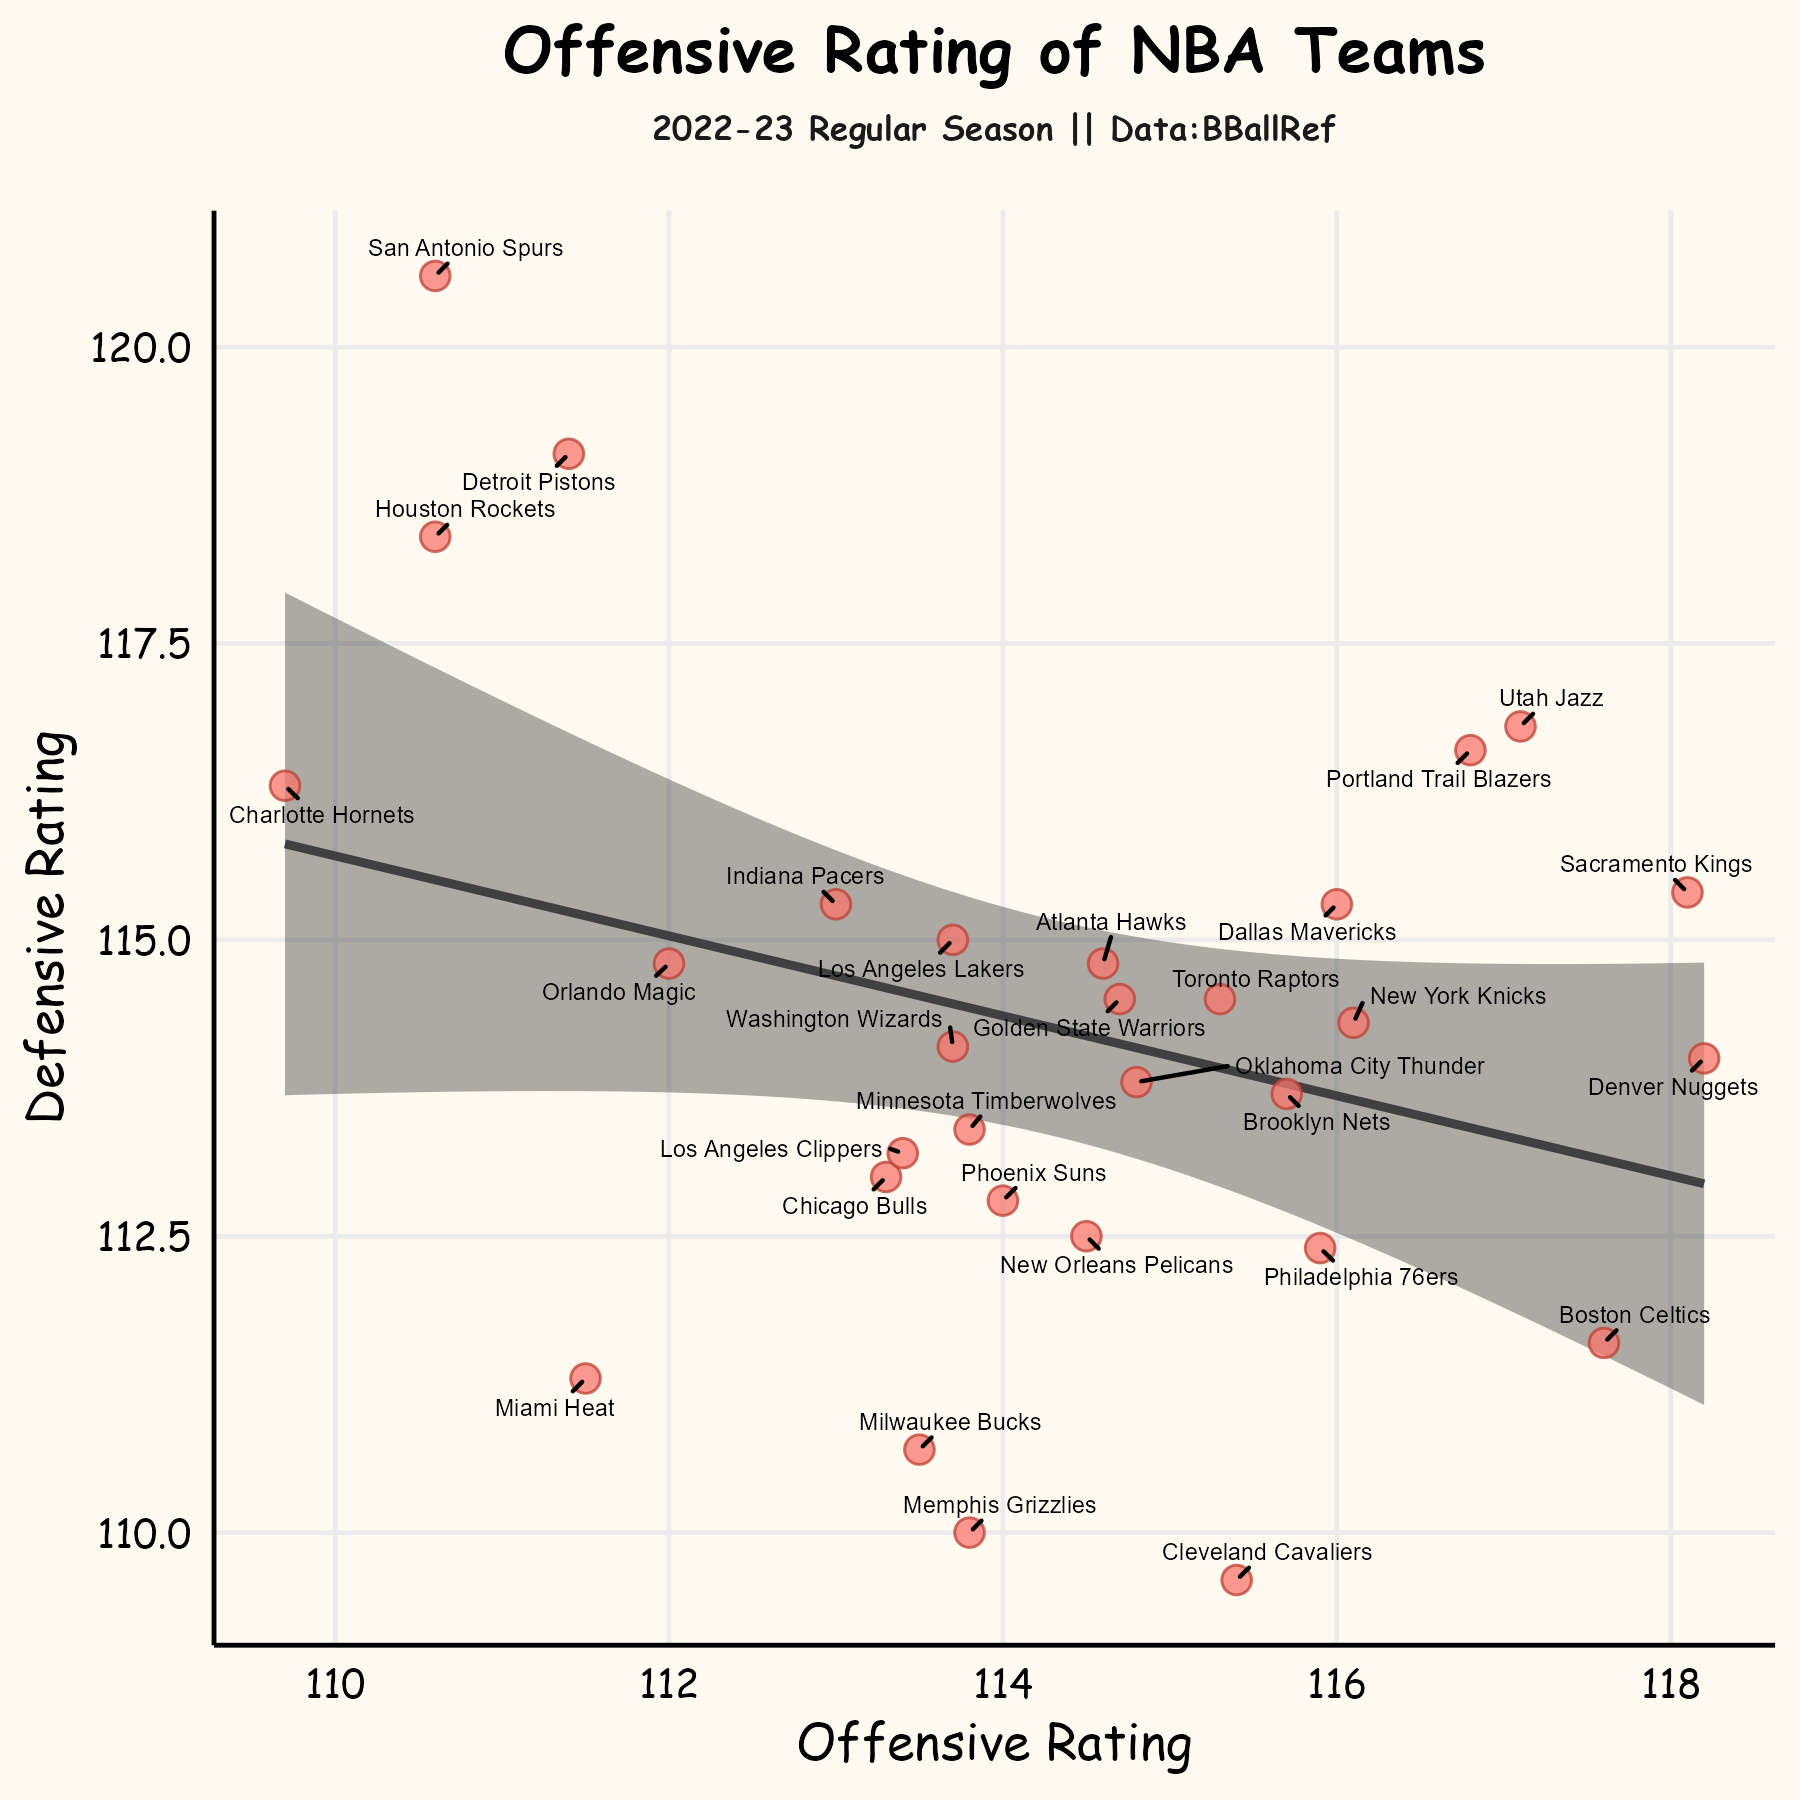
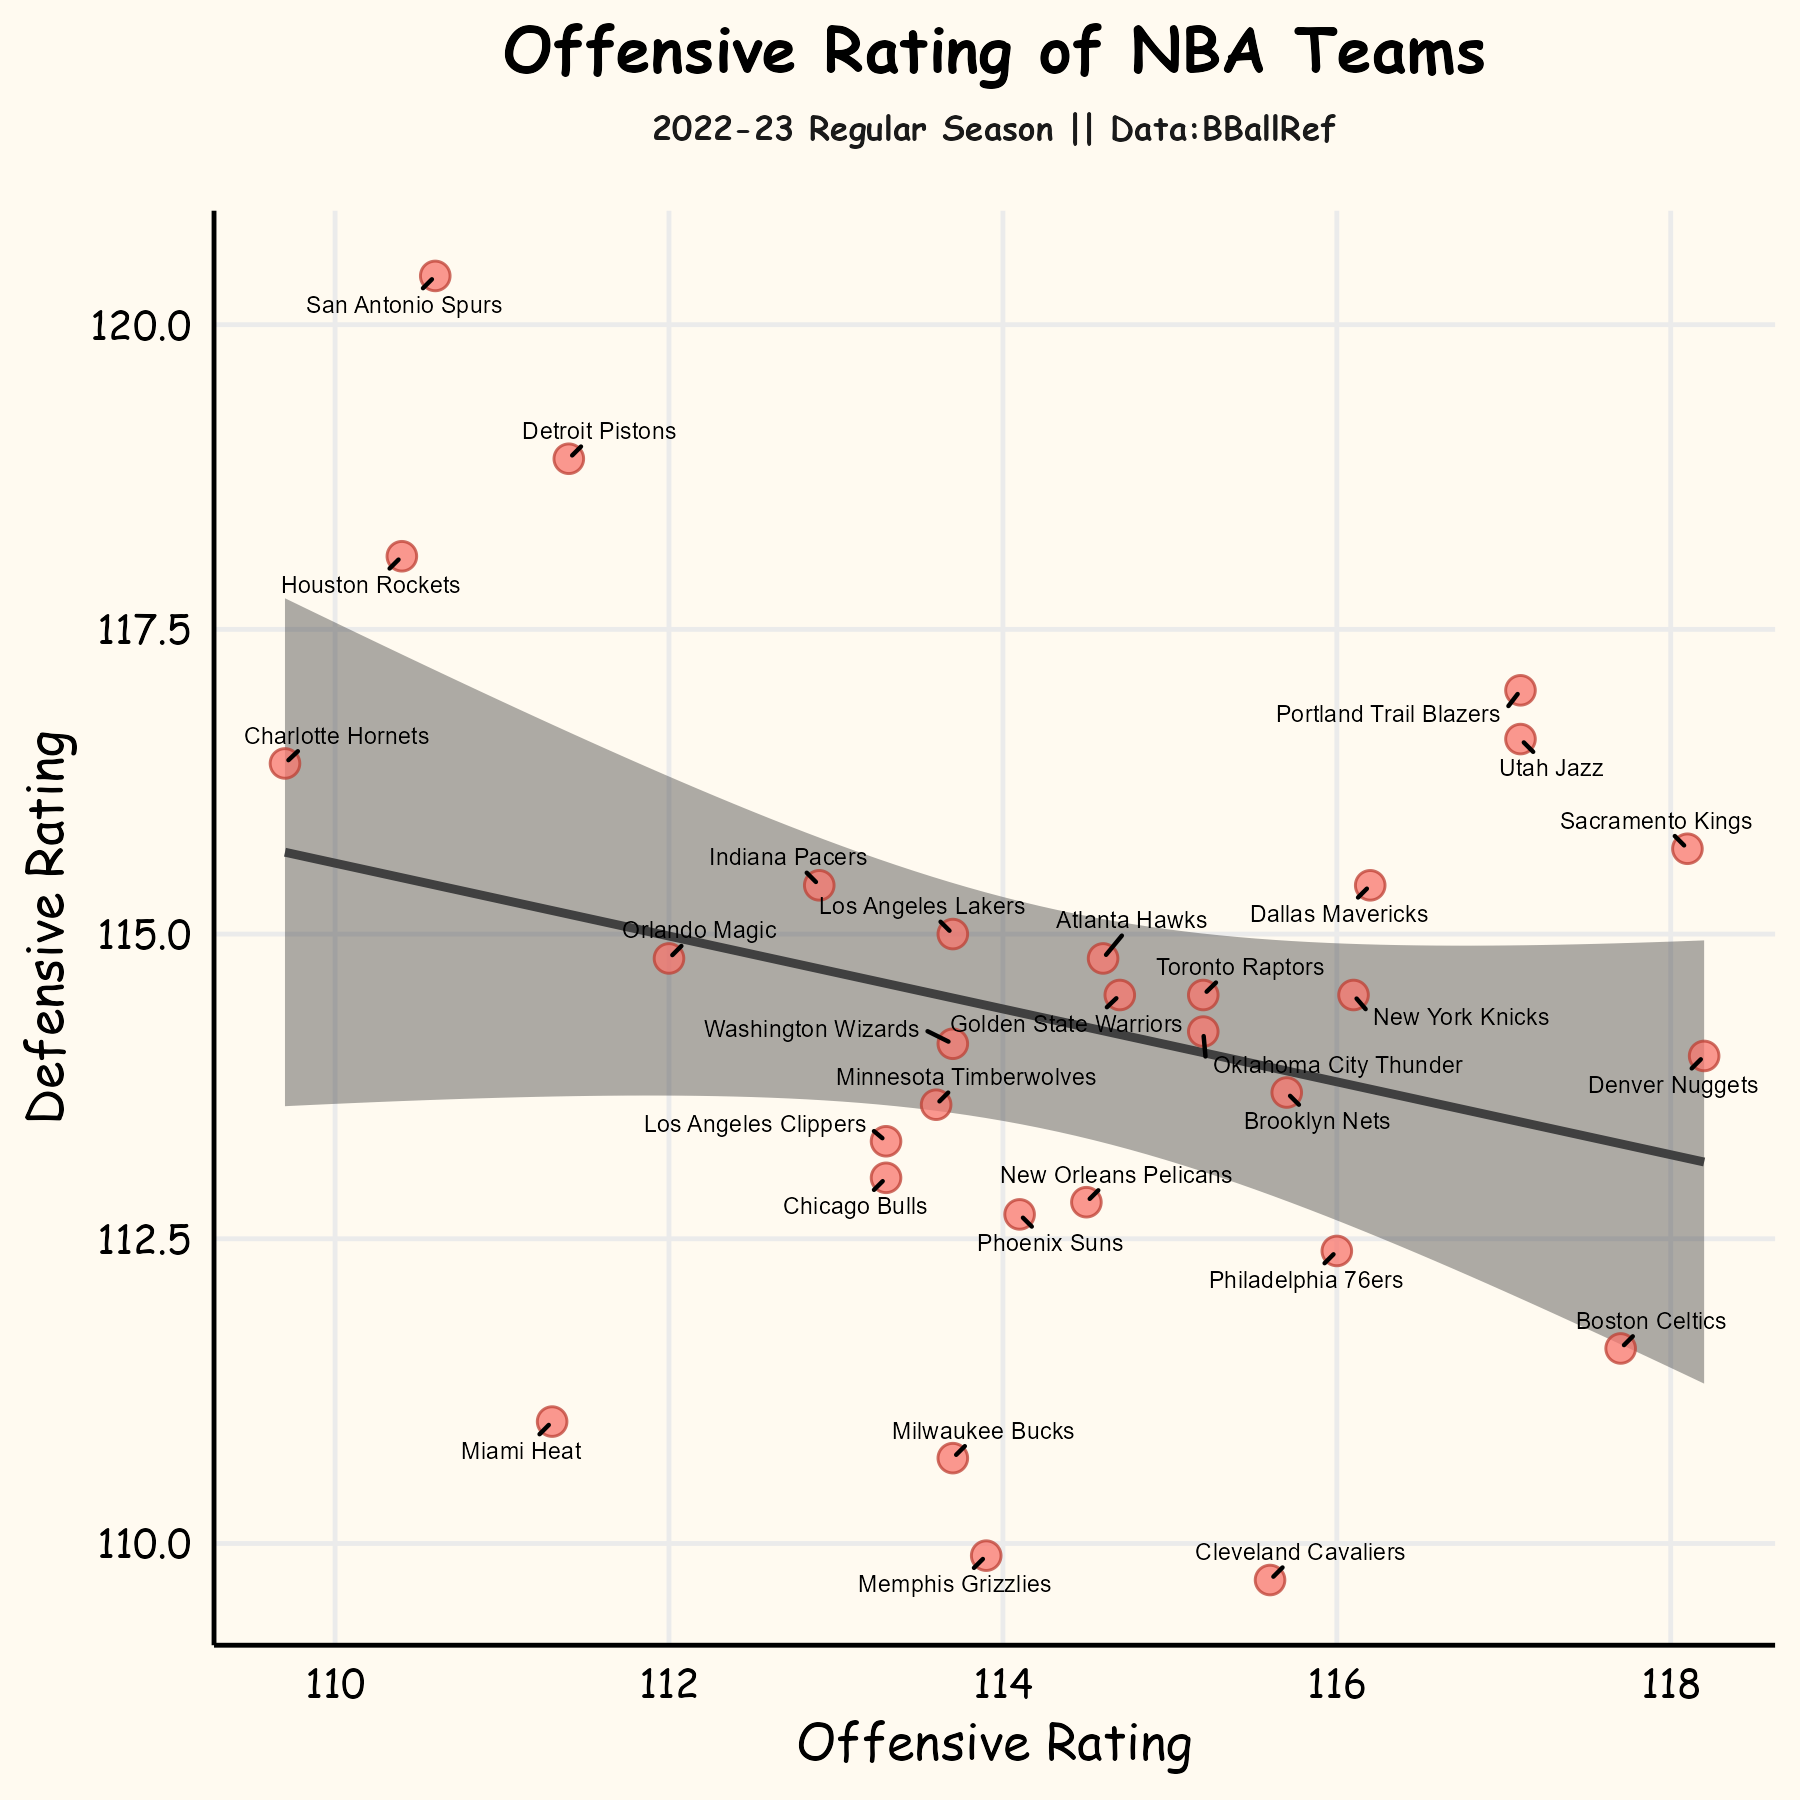
second commit

diff --git a/Scraping-from-BasketballRef.tex b/Scraping-from-BasketballRef.tex
@@ -1,0 +1,293 @@
+% Options for packages loaded elsewhere
+\PassOptionsToPackage{unicode}{hyperref}
+\PassOptionsToPackage{hyphens}{url}
+%
+\documentclass[
+]{article}
+\usepackage{amsmath,amssymb}
+\usepackage{lmodern}
+\usepackage{ifxetex,ifluatex}
+\ifnum 0\ifxetex 1\fi\ifluatex 1\fi=0 % if pdftex
+  \usepackage[T1]{fontenc}
+  \usepackage[utf8]{inputenc}
+  \usepackage{textcomp} % provide euro and other symbols
+\else % if luatex or xetex
+  \usepackage{unicode-math}
+  \defaultfontfeatures{Scale=MatchLowercase}
+  \defaultfontfeatures[\rmfamily]{Ligatures=TeX,Scale=1}
+\fi
+% Use upquote if available, for straight quotes in verbatim environments
+\IfFileExists{upquote.sty}{\usepackage{upquote}}{}
+\IfFileExists{microtype.sty}{% use microtype if available
+  \usepackage[]{microtype}
+  \UseMicrotypeSet[protrusion]{basicmath} % disable protrusion for tt fonts
+}{}
+\makeatletter
+\@ifundefined{KOMAClassName}{% if non-KOMA class
+  \IfFileExists{parskip.sty}{%
+    \usepackage{parskip}
+  }{% else
+    \setlength{\parindent}{0pt}
+    \setlength{\parskip}{6pt plus 2pt minus 1pt}}
+}{% if KOMA class
+  \KOMAoptions{parskip=half}}
+\makeatother
+\usepackage{xcolor}
+\IfFileExists{xurl.sty}{\usepackage{xurl}}{} % add URL line breaks if available
+\IfFileExists{bookmark.sty}{\usepackage{bookmark}}{\usepackage{hyperref}}
+\hypersetup{
+  pdftitle={Scraping from BasketballRef},
+  pdfauthor={Jarred Robidoux},
+  hidelinks,
+  pdfcreator={LaTeX via pandoc}}
+\urlstyle{same} % disable monospaced font for URLs
+\usepackage[margin=1in]{geometry}
+\usepackage{color}
+\usepackage{fancyvrb}
+\newcommand{\VerbBar}{|}
+\newcommand{\VERB}{\Verb[commandchars=\\\{\}]}
+\DefineVerbatimEnvironment{Highlighting}{Verbatim}{commandchars=\\\{\}}
+% Add ',fontsize=\small' for more characters per line
+\usepackage{framed}
+\definecolor{shadecolor}{RGB}{248,248,248}
+\newenvironment{Shaded}{\begin{snugshade}}{\end{snugshade}}
+\newcommand{\AlertTok}[1]{\textcolor[rgb]{0.94,0.16,0.16}{#1}}
+\newcommand{\AnnotationTok}[1]{\textcolor[rgb]{0.56,0.35,0.01}{\textbf{\textit{#1}}}}
+\newcommand{\AttributeTok}[1]{\textcolor[rgb]{0.77,0.63,0.00}{#1}}
+\newcommand{\BaseNTok}[1]{\textcolor[rgb]{0.00,0.00,0.81}{#1}}
+\newcommand{\BuiltInTok}[1]{#1}
+\newcommand{\CharTok}[1]{\textcolor[rgb]{0.31,0.60,0.02}{#1}}
+\newcommand{\CommentTok}[1]{\textcolor[rgb]{0.56,0.35,0.01}{\textit{#1}}}
+\newcommand{\CommentVarTok}[1]{\textcolor[rgb]{0.56,0.35,0.01}{\textbf{\textit{#1}}}}
+\newcommand{\ConstantTok}[1]{\textcolor[rgb]{0.00,0.00,0.00}{#1}}
+\newcommand{\ControlFlowTok}[1]{\textcolor[rgb]{0.13,0.29,0.53}{\textbf{#1}}}
+\newcommand{\DataTypeTok}[1]{\textcolor[rgb]{0.13,0.29,0.53}{#1}}
+\newcommand{\DecValTok}[1]{\textcolor[rgb]{0.00,0.00,0.81}{#1}}
+\newcommand{\DocumentationTok}[1]{\textcolor[rgb]{0.56,0.35,0.01}{\textbf{\textit{#1}}}}
+\newcommand{\ErrorTok}[1]{\textcolor[rgb]{0.64,0.00,0.00}{\textbf{#1}}}
+\newcommand{\ExtensionTok}[1]{#1}
+\newcommand{\FloatTok}[1]{\textcolor[rgb]{0.00,0.00,0.81}{#1}}
+\newcommand{\FunctionTok}[1]{\textcolor[rgb]{0.00,0.00,0.00}{#1}}
+\newcommand{\ImportTok}[1]{#1}
+\newcommand{\InformationTok}[1]{\textcolor[rgb]{0.56,0.35,0.01}{\textbf{\textit{#1}}}}
+\newcommand{\KeywordTok}[1]{\textcolor[rgb]{0.13,0.29,0.53}{\textbf{#1}}}
+\newcommand{\NormalTok}[1]{#1}
+\newcommand{\OperatorTok}[1]{\textcolor[rgb]{0.81,0.36,0.00}{\textbf{#1}}}
+\newcommand{\OtherTok}[1]{\textcolor[rgb]{0.56,0.35,0.01}{#1}}
+\newcommand{\PreprocessorTok}[1]{\textcolor[rgb]{0.56,0.35,0.01}{\textit{#1}}}
+\newcommand{\RegionMarkerTok}[1]{#1}
+\newcommand{\SpecialCharTok}[1]{\textcolor[rgb]{0.00,0.00,0.00}{#1}}
+\newcommand{\SpecialStringTok}[1]{\textcolor[rgb]{0.31,0.60,0.02}{#1}}
+\newcommand{\StringTok}[1]{\textcolor[rgb]{0.31,0.60,0.02}{#1}}
+\newcommand{\VariableTok}[1]{\textcolor[rgb]{0.00,0.00,0.00}{#1}}
+\newcommand{\VerbatimStringTok}[1]{\textcolor[rgb]{0.31,0.60,0.02}{#1}}
+\newcommand{\WarningTok}[1]{\textcolor[rgb]{0.56,0.35,0.01}{\textbf{\textit{#1}}}}
+\usepackage{graphicx}
+\makeatletter
+\def\maxwidth{\ifdim\Gin@nat@width>\linewidth\linewidth\else\Gin@nat@width\fi}
+\def\maxheight{\ifdim\Gin@nat@height>\textheight\textheight\else\Gin@nat@height\fi}
+\makeatother
+% Scale images if necessary, so that they will not overflow the page
+% margins by default, and it is still possible to overwrite the defaults
+% using explicit options in \includegraphics[width, height, ...]{}
+\setkeys{Gin}{width=\maxwidth,height=\maxheight,keepaspectratio}
+% Set default figure placement to htbp
+\makeatletter
+\def\fps@figure{htbp}
+\makeatother
+\setlength{\emergencystretch}{3em} % prevent overfull lines
+\providecommand{\tightlist}{%
+  \setlength{\itemsep}{0pt}\setlength{\parskip}{0pt}}
+\setcounter{secnumdepth}{-\maxdimen} % remove section numbering
+\ifluatex
+  \usepackage{selnolig}  % disable illegal ligatures
+\fi
+
+\title{Scraping from BasketballRef}
+\author{Jarred Robidoux}
+\date{2/10/2023}
+
+\begin{document}
+\maketitle
+
+\hypertarget{scraping-from-basketballref}{%
+\section{\texorpdfstring{\textbf{Scraping from
+BasketballRef}}{Scraping from BasketballRef}}\label{scraping-from-basketballref}}
+
+In order to scrape from BasketballReference.com, we are going to need to
+utilize the ``rvest'' and ``dplyr'' packages within R.
+
+\hypertarget{load-packages}{%
+\section{\texorpdfstring{\textbf{Load
+Packages}}{Load Packages}}\label{load-packages}}
+
+Let's load the required packages.
+
+\begin{Shaded}
+\begin{Highlighting}[]
+\CommentTok{\#install.packages("rvest")}
+\FunctionTok{library}\NormalTok{(rvest)}
+\CommentTok{\#install.packages("dplyr")}
+\FunctionTok{library}\NormalTok{(dplyr)}
+\end{Highlighting}
+\end{Shaded}
+
+\begin{verbatim}
+## 
+## Attaching package: 'dplyr'
+\end{verbatim}
+
+\begin{verbatim}
+## The following objects are masked from 'package:stats':
+## 
+##     filter, lag
+\end{verbatim}
+
+\begin{verbatim}
+## The following objects are masked from 'package:base':
+## 
+##     intersect, setdiff, setequal, union
+\end{verbatim}
+
+\begin{Shaded}
+\begin{Highlighting}[]
+\CommentTok{\#install.packages("janitor")}
+\FunctionTok{library}\NormalTok{(janitor)}
+\end{Highlighting}
+\end{Shaded}
+
+\begin{verbatim}
+## 
+## Attaching package: 'janitor'
+\end{verbatim}
+
+\begin{verbatim}
+## The following objects are masked from 'package:stats':
+## 
+##     chisq.test, fisher.test
+\end{verbatim}
+
+\begin{Shaded}
+\begin{Highlighting}[]
+\CommentTok{\#install.packages("stringr")}
+\FunctionTok{library}\NormalTok{(stringr)}
+\CommentTok{\#install.packages("ggplot2")}
+\FunctionTok{library}\NormalTok{(ggplot2)}
+\CommentTok{\#install.packages("prismatic")}
+\FunctionTok{library}\NormalTok{(prismatic)}
+\CommentTok{\#install.packages("ggrepel")}
+\FunctionTok{library}\NormalTok{(ggrepel)}
+\end{Highlighting}
+\end{Shaded}
+
+\hypertarget{pull-the-data}{%
+\section{\texorpdfstring{\textbf{Pull the
+Data}}{Pull the Data}}\label{pull-the-data}}
+
+\begin{Shaded}
+\begin{Highlighting}[]
+\CommentTok{\# Upload the link of the site where the data will be coming from }
+\NormalTok{link }\OtherTok{\textless{}{-}}  \StringTok{"https://www.basketball{-}reference.com/leagues/NBA\_2023.html"}
+\CommentTok{\# Create "page" object and that sends "link" through the read\_html() function}
+\NormalTok{full\_table }\OtherTok{\textless{}{-}} \FunctionTok{read\_html}\NormalTok{(link, }\AttributeTok{as.data.frame=}\NormalTok{T, }\AttributeTok{stringsAsFactors=}\NormalTok{T)}
+
+\CommentTok{\# html\_nodes to pull all nodes under the "table" label }
+\NormalTok{adv }\OtherTok{\textless{}{-}}\NormalTok{ full\_table }\SpecialCharTok{\%\textgreater{}\%}
+  \FunctionTok{html\_nodes}\NormalTok{(}\StringTok{"table"}\NormalTok{)}\SpecialCharTok{\%\textgreater{}\%}
+\NormalTok{  .[[}\DecValTok{11}\NormalTok{]] }\SpecialCharTok{\%\textgreater{}\%}
+  \FunctionTok{html\_table}\NormalTok{(}\AttributeTok{fill=}\NormalTok{T)}
+\end{Highlighting}
+\end{Shaded}
+
+\hypertarget{manipulate-data}{%
+\section{\texorpdfstring{\textbf{Manipulate
+Data}}{Manipulate Data}}\label{manipulate-data}}
+
+Let's tidy up our adv dataframe so it is easier to plot
+
+\begin{Shaded}
+\begin{Highlighting}[]
+\CommentTok{\# make 1 row column names }
+\NormalTok{adv }\OtherTok{\textless{}{-}}\NormalTok{ adv }\SpecialCharTok{\%\textgreater{}\%} \FunctionTok{row\_to\_names}\NormalTok{(}\DecValTok{1}\NormalTok{)}
+\end{Highlighting}
+\end{Shaded}
+
+\begin{verbatim}
+## Warning: Row 1 does not provide unique names. Consider running clean_names()
+## after row_to_names().
+\end{verbatim}
+
+\begin{Shaded}
+\begin{Highlighting}[]
+\FunctionTok{colnames}\NormalTok{(adv) }\OtherTok{\textless{}{-}} \FunctionTok{make.unique}\NormalTok{(}\FunctionTok{names}\NormalTok{(adv))}
+
+\CommentTok{\# remove league average row }
+\NormalTok{adv }\OtherTok{\textless{}{-}}\NormalTok{ adv[(}\SpecialCharTok{!}\NormalTok{adv}\SpecialCharTok{$}\NormalTok{Team }\SpecialCharTok{==} \StringTok{"League Average"}\NormalTok{),]}
+
+\CommentTok{\# remove all NAs}
+\NormalTok{adv }\OtherTok{\textless{}{-}}\NormalTok{ adv[,}\FunctionTok{colSums}\NormalTok{(}\FunctionTok{is.na}\NormalTok{(adv))}\SpecialCharTok{\textless{}}\FunctionTok{nrow}\NormalTok{(adv)]}
+
+\CommentTok{\# remove *s}
+\NormalTok{adv}\SpecialCharTok{$}\NormalTok{Team }\OtherTok{\textless{}{-}}\NormalTok{ (}\FunctionTok{str\_remove}\NormalTok{(adv}\SpecialCharTok{$}\NormalTok{Team, }\StringTok{"[*]"}\NormalTok{))}
+\end{Highlighting}
+\end{Shaded}
+
+\hypertarget{plot-the-data}{%
+\section{\texorpdfstring{\textbf{Plot the
+Data}}{Plot the Data}}\label{plot-the-data}}
+
+Now it's time to plot our data. We are going to create a scatterplot
+that compares the Offensive Rating and Defensive Rating of Teams this
+NBA Season.
+
+\begin{Shaded}
+\begin{Highlighting}[]
+\CommentTok{\# Create custom theme for the plot }
+\NormalTok{theme\_jelly }\OtherTok{\textless{}{-}} \ControlFlowTok{function}\NormalTok{()\{}
+  \FunctionTok{theme\_minimal}\NormalTok{(}\AttributeTok{base\_size =} \DecValTok{12}\NormalTok{, }\AttributeTok{base\_family =} \StringTok{"Comic Sans MS"}\NormalTok{) }\SpecialCharTok{\%+replace\%}
+    \FunctionTok{theme}\NormalTok{(}
+      \AttributeTok{panel.grid.minor =} \FunctionTok{element\_blank}\NormalTok{(),}
+      \AttributeTok{plot.background =} \FunctionTok{element\_rect}\NormalTok{(}\AttributeTok{fill =} \StringTok{"floralwhite"}\NormalTok{, }\AttributeTok{color =} \StringTok{"floralwhite"}\NormalTok{)}
+\NormalTok{    )}
+\NormalTok{\}}
+
+\NormalTok{nba }\OtherTok{\textless{}{-}}\NormalTok{ adv }\SpecialCharTok{\%\textgreater{}\%}
+  \FunctionTok{ggplot}\NormalTok{(}\FunctionTok{aes}\NormalTok{(}\AttributeTok{x=}\FunctionTok{as.numeric}\NormalTok{(ORtg), }\AttributeTok{y =} \FunctionTok{as.numeric}\NormalTok{(DRtg), }\AttributeTok{label =}\NormalTok{ Team))}\SpecialCharTok{+}
+  \FunctionTok{geom\_smooth}\NormalTok{(}\AttributeTok{method=}\StringTok{"lm"}\NormalTok{, }\AttributeTok{color =} \StringTok{"gray25"}\NormalTok{, }\AttributeTok{fill =} \StringTok{"gray20"}\NormalTok{)}\SpecialCharTok{+}
+  \FunctionTok{geom\_point}\NormalTok{(}\FunctionTok{aes}\NormalTok{(}\AttributeTok{fill =} \StringTok{"red"}\NormalTok{, }\AttributeTok{color =} \FunctionTok{after\_scale}\NormalTok{(}\FunctionTok{clr\_darken}\NormalTok{(fill, }\FloatTok{0.3}\NormalTok{))),}
+             \AttributeTok{shape =} \DecValTok{21}\NormalTok{, }
+             \AttributeTok{alpha =}\NormalTok{.}\DecValTok{75}\NormalTok{,}
+             \AttributeTok{size =} \DecValTok{3}\NormalTok{)}\SpecialCharTok{+}
+  \FunctionTok{geom\_text\_repel}\NormalTok{(}\AttributeTok{size =} \DecValTok{2}\NormalTok{, }\AttributeTok{color =} \StringTok{"black"}\NormalTok{, }\AttributeTok{min.segment.length =} \FunctionTok{unit}\NormalTok{(}\FloatTok{0.1}\NormalTok{, }\StringTok{"lines"}\NormalTok{))}\SpecialCharTok{+}
+  \FunctionTok{theme\_jelly}\NormalTok{()}\SpecialCharTok{+}
+  \FunctionTok{theme}\NormalTok{(}
+    \AttributeTok{legend.position =} \StringTok{"none"}\NormalTok{,}
+    \AttributeTok{axis.line =} \FunctionTok{element\_line}\NormalTok{(}\AttributeTok{color =} \StringTok{"black"}\NormalTok{),}
+    \AttributeTok{axis.text =} \FunctionTok{element\_text}\NormalTok{(}\AttributeTok{color =} \StringTok{"black"}\NormalTok{),}
+    \AttributeTok{axis.title =} \FunctionTok{element\_text}\NormalTok{(}\AttributeTok{color =} \StringTok{"black"}\NormalTok{),}
+    \AttributeTok{plot.title =} \FunctionTok{element\_text}\NormalTok{(}\AttributeTok{color =} \StringTok{"black"}\NormalTok{, }\AttributeTok{hjust =}\NormalTok{ .}\DecValTok{5}\NormalTok{, }\AttributeTok{face =} \StringTok{"bold"}\NormalTok{, }\AttributeTok{size =} \DecValTok{15}\NormalTok{),}
+    \AttributeTok{plot.subtitle =} \FunctionTok{element\_text}\NormalTok{(}\AttributeTok{color =} \StringTok{"gray10"}\NormalTok{, }\AttributeTok{hjust =}\NormalTok{ .}\DecValTok{5}\NormalTok{, }\AttributeTok{face =} \StringTok{"bold"}\NormalTok{, }\AttributeTok{size =} \DecValTok{8}\NormalTok{))}\SpecialCharTok{+}
+  \FunctionTok{labs}\NormalTok{(}\AttributeTok{title =} \StringTok{"Offensive Rating of NBA Teams"}\NormalTok{,}
+       \AttributeTok{subtitle =} \StringTok{"2022{-}23 Regular Season || Data:BBallRef}\SpecialCharTok{\textbackslash{}n}\StringTok{"}\NormalTok{,}
+       \AttributeTok{x =} \StringTok{"Offensive Rating"}\NormalTok{,}
+       \AttributeTok{y =} \StringTok{"Defensive Rating"}\NormalTok{,}
+       \FunctionTok{scale\_y\_reverse}\NormalTok{()}
+\NormalTok{  )}
+
+\FunctionTok{ggsave}\NormalTok{(}\StringTok{"mid\_season.png"}\NormalTok{, nba, }\AttributeTok{height =} \DecValTok{6}\NormalTok{, }\AttributeTok{width =} \DecValTok{6}\NormalTok{, }\AttributeTok{dpi =} \DecValTok{300}\NormalTok{)}
+\end{Highlighting}
+\end{Shaded}
+
+\begin{verbatim}
+## `geom_smooth()` using formula = 'y ~ x'
+\end{verbatim}
+
+\begin{verbatim}
+## Warning: The following aesthetics were dropped during statistical transformation: label
+## i This can happen when ggplot fails to infer the correct grouping structure in
+##   the data.
+## i Did you forget to specify a `group` aesthetic or to convert a numerical
+##   variable into a factor?
+\end{verbatim}
+
+\end{document}
